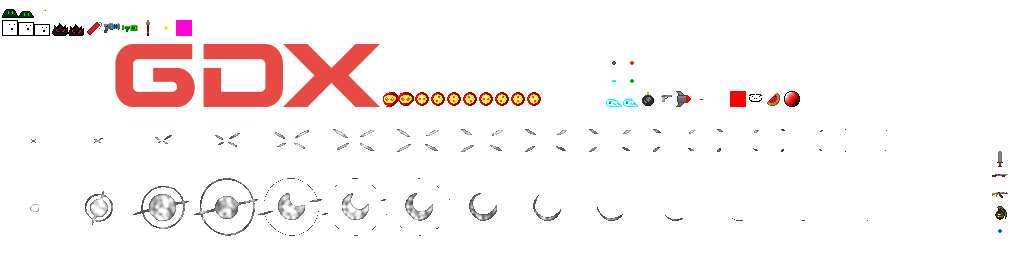
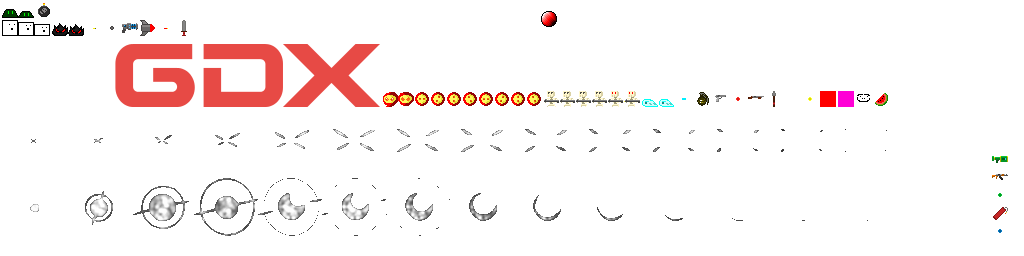
Add skeleton ranged enemy with projectile system
- Added RangedBehavior.java with chase/attack states
- Added skeleton enemy with configurable projectile size
- Fixed sprite animations for skeleton (frame 4 idle, frame 5 attack)
- Updated enemy_config.json with skeleton, fast_slime, tank_slime configs
- Fixed projectile collision to be smaller than sprite
- Projectiles now die on player impact
- Added skeleton.atlas and sprite

diff --git a/core/src/main/java/com/tikisadventure/entities/enemies/ConfigurableEnemy.java b/core/src/main/java/com/tikisadventure/entities/enemies/ConfigurableEnemy.java
@@ -10,7 +10,11 @@ import com.tikisadventure.entities.base.Entity;
 import com.tikisadventure.enemies.behavior.ChaserBehavior;
 import com.tikisadventure.enemies.behavior.EnemyBehavior;
 import com.tikisadventure.enemies.behavior.PouncingBounceBehavior;
+import com.tikisadventure.enemies.behavior.RangedBehavior;
 import com.tikisadventure.systems.WaveSystem;
+import com.tikisadventure.combat.projectiles.Projectile;
+import com.badlogic.gdx.utils.Array;
+import com.tikisadventure.effects.EffectManager;
 
 public class ConfigurableEnemy extends Entity {
 
@@ -22,16 +26,26 @@ public class ConfigurableEnemy extends Entity {
     private Animation<TextureRegion> transformAnim;
     private Animation<TextureRegion> attackAnim;
     private boolean hasPouncingBehavior = false;
+    private boolean isRanged = false;
     private boolean invertRenderDirection = false;
+    private Array<Projectile> enemyProjectiles;
+    private static EffectManager sharedEffectManager;
 
     static {
         JsonReader reader = new JsonReader();
         enemyConfig = reader.parse(Gdx.files.internal("enemy_config.json")).get("enemies");
     }
 
+    public static void setSharedEffectManager(EffectManager em) {
+        sharedEffectManager = em;
+    }
+
     public ConfigurableEnemy(String enemyType, WaveSystem waveSystem) {
         JsonValue config = enemyConfig.get(enemyType);
         if (config == null) config = enemyConfig.get("slime");
+
+        String behaviorType = config.getString("type", "chaser");
+        isRanged = "ranged".equals(behaviorType);
 
         this.vida = Math.round(config.getFloat("health", 3) * waveSystem.getDifficultyMultiplier());
         this.vida_max = this.vida;
@@ -64,7 +78,11 @@ public class ConfigurableEnemy extends Entity {
                     walkAnim.setPlayMode(Animation.PlayMode.LOOP_PINGPONG);
                 }
 
-                if (regions.length >= 10) {
+                if (isRanged && regions.length >= 6) {
+                    idleAnim = new Animation<>(0.1f, regions[4]);
+                    attackAnim = new Animation<>(0.3f, regions[5]);
+                    attackAnim.setPlayMode(Animation.PlayMode.NORMAL);
+                } else if (regions.length >= 10) {
                     transformAnim = new Animation<>(0.1f, regions[1]);
                     TextureRegion[] attackFrames = new TextureRegion[8];
                     System.arraycopy(regions, 2, attackFrames, 0, 8);
@@ -76,7 +94,6 @@ public class ConfigurableEnemy extends Entity {
             Gdx.app.error("ConfigurableEnemy", "Error loading sprite: " + atlas + "/" + region, e);
         }
 
-        String behaviorType = config.getString("type", "chaser");
         float attackRange = config.getFloat("attack_range", 1.0f);
         float attackCooldown = config.getFloat("attack_cooldown", 1.0f);
         invertRenderDirection = config.getBoolean("flip_sprite", false);
@@ -86,6 +103,22 @@ public class ConfigurableEnemy extends Entity {
             behavior = new PouncingBounceBehavior(speed, danyo, config.getFloat("transform_distance", 6),
                 config.getFloat("wait_duration", 1), config.getFloat("pounce_speed", 10),
                 config.getFloat("bounce_force", 4), config.getFloat("restart_distance", 4), attackCooldown);
+        } else if ("ranged".equals(behaviorType)) {
+            isRanged = true;
+            enemyProjectiles = new Array<>();
+            RangedBehavior ranged = new RangedBehavior(
+                speed,
+                config.getFloat("detection_range", 12),
+                attackCooldown,
+                config.getFloat("projectile_speed", 8),
+                danyo,
+                config.getString("projectile_sprite", "shared_RedBullet")
+            );
+            ranged.setEnemyProjectiles(enemyProjectiles);
+            ranged.setEffectManager(sharedEffectManager);
+            ranged.setProjectileRadius(config.getFloat("projectile_radius", 0.3f));
+            ranged.loadProjectileTexture();
+            behavior = ranged;
         } else {
             behavior = new ChaserBehavior(speed, danyo, attackRange, attackCooldown);
         }
@@ -126,6 +159,13 @@ public class ConfigurableEnemy extends Entity {
             }
         } else if (estado == Estado.walking && walkAnim != null) {
             frame = walkAnim.getKeyFrame(stateTime);
+        } else if (isRanged && behavior instanceof RangedBehavior) {
+            RangedBehavior ranged = (RangedBehavior) behavior;
+            if (ranged.isAttacking() && attackAnim != null) {
+                frame = attackAnim.getKeyFrame(stateTime);
+            } else if (idleAnim != null) {
+                frame = idleAnim.getKeyFrame(stateTime);
+            }
         }
 
         if (frame == null) return;
@@ -149,5 +189,13 @@ public class ConfigurableEnemy extends Entity {
         if (behavior instanceof PouncingBounceBehavior) {
             ((PouncingBounceBehavior) behavior).triggerBounce(dir);
         }
+    }
+
+    public Array<Projectile> getEnemyProjectiles() {
+        return enemyProjectiles;
+    }
+
+    public boolean isRanged() {
+        return isRanged;
     }
 }

diff --git a/core/src/main/java/com/tikisadventure/enemies/behavior/RangedBehavior.java b/core/src/main/java/com/tikisadventure/enemies/behavior/RangedBehavior.java
@@ -1,0 +1,129 @@
+package com.tikisadventure.enemies.behavior;
+
+import com.badlogic.gdx.math.Vector2;
+import com.badlogic.gdx.utils.Array;
+import com.tikisadventure.entities.base.Entity;
+import com.tikisadventure.combat.projectiles.Projectile;
+import com.tikisadventure.core.Assets;
+import com.tikisadventure.effects.EffectManager;
+import com.badlogic.gdx.graphics.g2d.TextureRegion;
+
+public class RangedBehavior implements EnemyBehavior {
+
+    public enum RangedState {
+        CHASE,
+        ATTACKING
+    }
+
+    private float speed;
+    private float detectionRange;
+    private float attackCooldown;
+    private float projectileSpeed;
+    private float projectileDamage;
+    private float projectileRadius = 0.3f;
+    private String projectileSprite;
+    private TextureRegion projectileTexture;
+    
+    private RangedState currentState = RangedState.CHASE;
+    private float currentCooldown = 0;
+    private boolean isFiring = false;
+    private float firingTimer = 0f;
+    private boolean isShowingAttackFrame = false;
+    
+    private EffectManager effectManager;
+    private Array<Projectile> enemyProjectiles;
+
+    public RangedBehavior(float speed, float detectionRange, float attackCooldown, 
+                    float projectileSpeed, float projectileDamage, String projectileSprite) {
+        this.speed = speed;
+        this.detectionRange = detectionRange;
+        this.attackCooldown = attackCooldown;
+        this.projectileSpeed = projectileSpeed;
+        this.projectileDamage = projectileDamage;
+        this.projectileSprite = projectileSprite;
+    }
+
+    public void setEffectManager(EffectManager em) { this.effectManager = em; }
+    public void setEnemyProjectiles(Array<Projectile> projectiles) { this.enemyProjectiles = projectiles; }
+    public void setProjectileRadius(float radius) { this.projectileRadius = radius; }
+
+    @Override
+    public void update(Entity enemy, Entity target, float delta, Array<Entity> allEnemies) {
+        if (enemy == null || target == null || !enemy.isAlive()) return;
+
+        if (isFiring) {
+            firingTimer += delta;
+            if (firingTimer > 0.3f) {
+                isFiring = false;
+                isShowingAttackFrame = false;
+                firingTimer = 0;
+            }
+        }
+        
+        float distToTarget = enemy.getPosicion().dst(target.getPosicion());
+        boolean canSeeTarget = distToTarget <= detectionRange;
+
+        if (canSeeTarget) {
+            currentState = RangedState.ATTACKING;
+        } else {
+            currentState = RangedState.CHASE;
+        }
+
+        if (currentState == RangedState.CHASE) {
+            updateChase(enemy, target, delta);
+        } else {
+            updateAttack(enemy, target, delta);
+        }
+    }
+
+    private void updateChase(Entity enemy, Entity target, float delta) {
+        Vector2 direction = new Vector2(
+            target.getPosicion().x - enemy.getPosicion().x,
+            target.getPosicion().y - enemy.getPosicion().y
+        ).nor();
+        
+        enemy.getPosicion().mulAdd(direction, speed * delta);
+        enemy.setEstado(Entity.Estado.walking);
+        enemy.setMirarDerecha(direction.x >= 0);
+    }
+
+    private void updateAttack(Entity enemy, Entity target, float delta) {
+        Vector2 direction = new Vector2(
+            target.getPosicion().x - enemy.getPosicion().x,
+            target.getPosicion().y - enemy.getPosicion().y
+        );
+        enemy.setMirarDerecha(direction.x >= 0);
+        enemy.setEstado(Entity.Estado.idle);
+        
+        if (currentCooldown <= 0) {
+            fireProjectile(enemy, direction.nor());
+            currentCooldown = attackCooldown;
+            isFiring = true;
+            firingTimer = 0;
+            isShowingAttackFrame = true;
+        } else {
+            currentCooldown -= delta;
+        }
+    }
+
+    private void fireProjectile(Entity enemy, Vector2 direction) {
+        if (enemyProjectiles == null || projectileTexture == null) return;
+        Projectile projectile = new Projectile(enemy, new Vector2(enemy.getPosicion()), direction, projectileSpeed, projectileDamage, projectileRadius, projectileTexture, effectManager, null, 0);
+        projectile.setOwner(enemy);
+        enemyProjectiles.add(projectile);
+    }
+
+    public void loadProjectileTexture() {
+        if (projectileSprite != null) {
+            String[] parts = projectileSprite.split("_", 2);
+            projectileTexture = Assets.getRegion(parts.length > 1 ? parts[0] : "shared", parts.length > 1 ? parts[1] : projectileSprite);
+        }
+    }
+
+    public boolean isAttacking() { return isShowingAttackFrame; }
+    public boolean isFiring() { return isFiring; }
+    @Override public float getAttackRange() { return detectionRange; }
+    @Override public float getAttackDamage() { return projectileDamage; }
+    @Override public float getAttackCooldown() { return attackCooldown; }
+    @Override public String getBehaviorType() { return "ranged"; }
+}

diff --git a/core/src/main/java/com/tikisadventure/screens/GameScreen.java b/core/src/main/java/com/tikisadventure/screens/GameScreen.java
@@ -92,6 +92,8 @@ public class GameScreen implements Screen {
         waveSystem = new WaveSystem(waveSectionName);
         spawner = new EnemySpawner(enemies, floorManager, waveSystem);
 
+        com.tikisadventure.entities.enemies.ConfigurableEnemy.setSharedEffectManager(effectManager);
+
         setupPlayerWeapons();
         hud = new HUD(new SpriteBatch());
         shapeRenderer = new ShapeRenderer();
@@ -120,6 +122,7 @@ public class GameScreen implements Screen {
         floorManager.renderEntities(batch);
         for (Pickup p : pickups) p.render(batch, delta);
         for (Entity e : enemies) if (e.isAlive()) e.render(batch, delta);
+        renderAllEnemyProjectiles();
         effectManager.render(batch);
         player.render(batch, delta);
         batch.end();
@@ -205,6 +208,9 @@ public class GameScreen implements Screen {
                     ConfigurableEnemy configEnemy = (ConfigurableEnemy) enemy;
                     if (configEnemy.hasPouncingBehavior()) {
                         physicsSystem.resolveWallCollisionWithBounce(enemy, 0.4f);
+                    } else if (configEnemy.isRanged()) {
+                        physicsSystem.resolveWallCollision(enemy, 0.4f);
+                        updateEnemyProjectiles(configEnemy.getEnemyProjectiles(), delta, player);
                     } else {
                         physicsSystem.resolveWallCollision(enemy, 0.4f);
                     }
@@ -217,6 +223,41 @@ public class GameScreen implements Screen {
                 enemies.removeIndex(i);
             }
 
+        }
+    }
+
+    private void updateEnemyProjectiles(Array<com.tikisadventure.combat.projectiles.Projectile> projectiles, float delta, Player player) {
+        if (projectiles == null) return;
+        
+        for (int i = projectiles.size - 1; i >= 0; i--) {
+            com.tikisadventure.combat.projectiles.Projectile p = projectiles.get(i);
+            p.update(delta);
+            
+            if (!p.isAlive()) {
+                projectiles.removeIndex(i);
+                continue;
+            }
+            
+            if (p.getPosition().dst(player.getPosicion()) < player.getHitboxActionTrigger().radius + p.getRadius()) {
+                if (p.canHit(player)) {
+                    player.receiveDamage((int) p.getDamage());
+                    p.registerHit(player);
+                    p.die();
+                }
+            }
+        }
+    }
+
+    private void renderAllEnemyProjectiles() {
+        for (Entity e : enemies) {
+            if (e instanceof ConfigurableEnemy) {
+                ConfigurableEnemy ce = (ConfigurableEnemy) e;
+                if (ce.isRanged() && ce.getEnemyProjectiles() != null) {
+                    for (com.tikisadventure.combat.projectiles.Projectile p : ce.getEnemyProjectiles()) {
+                        if (p.isAlive()) p.render(batch);
+                    }
+                }
+            }
         }
     }
 

diff --git a/core/src/main/java/com/tikisadventure/core/Assets.java b/core/src/main/java/com/tikisadventure/core/Assets.java
@@ -17,8 +17,7 @@ public class Assets {
         manager.load("atlas/moko.atlas", TextureAtlas.class);
         manager.load("atlas/tiki.atlas", TextureAtlas.class);
         manager.load("atlas/zuki.atlas", TextureAtlas.class);
-        manager.load("atlas/tank.atlas", TextureAtlas.class);
-        manager.load("atlas/fast.atlas", TextureAtlas.class);
+        manager.load("atlas/skeleton.atlas", TextureAtlas.class);
     }
 
     public static void finishLoading() {
@@ -27,8 +26,7 @@ public class Assets {
         atlases.put("moko", manager.get("atlas/moko.atlas", TextureAtlas.class));
         atlases.put("tiki", manager.get("atlas/tiki.atlas", TextureAtlas.class));
         atlases.put("zuki", manager.get("atlas/zuki.atlas", TextureAtlas.class));
-        atlases.put("tank", manager.get("atlas/tank.atlas", TextureAtlas.class));
-        atlases.put("fast", manager.get("atlas/fast.atlas", TextureAtlas.class));
+        atlases.put("skeleton", manager.get("atlas/skeleton.atlas", TextureAtlas.class));
     }
 
     public static TextureRegion getRegion(String atlasName, String regionName) {
